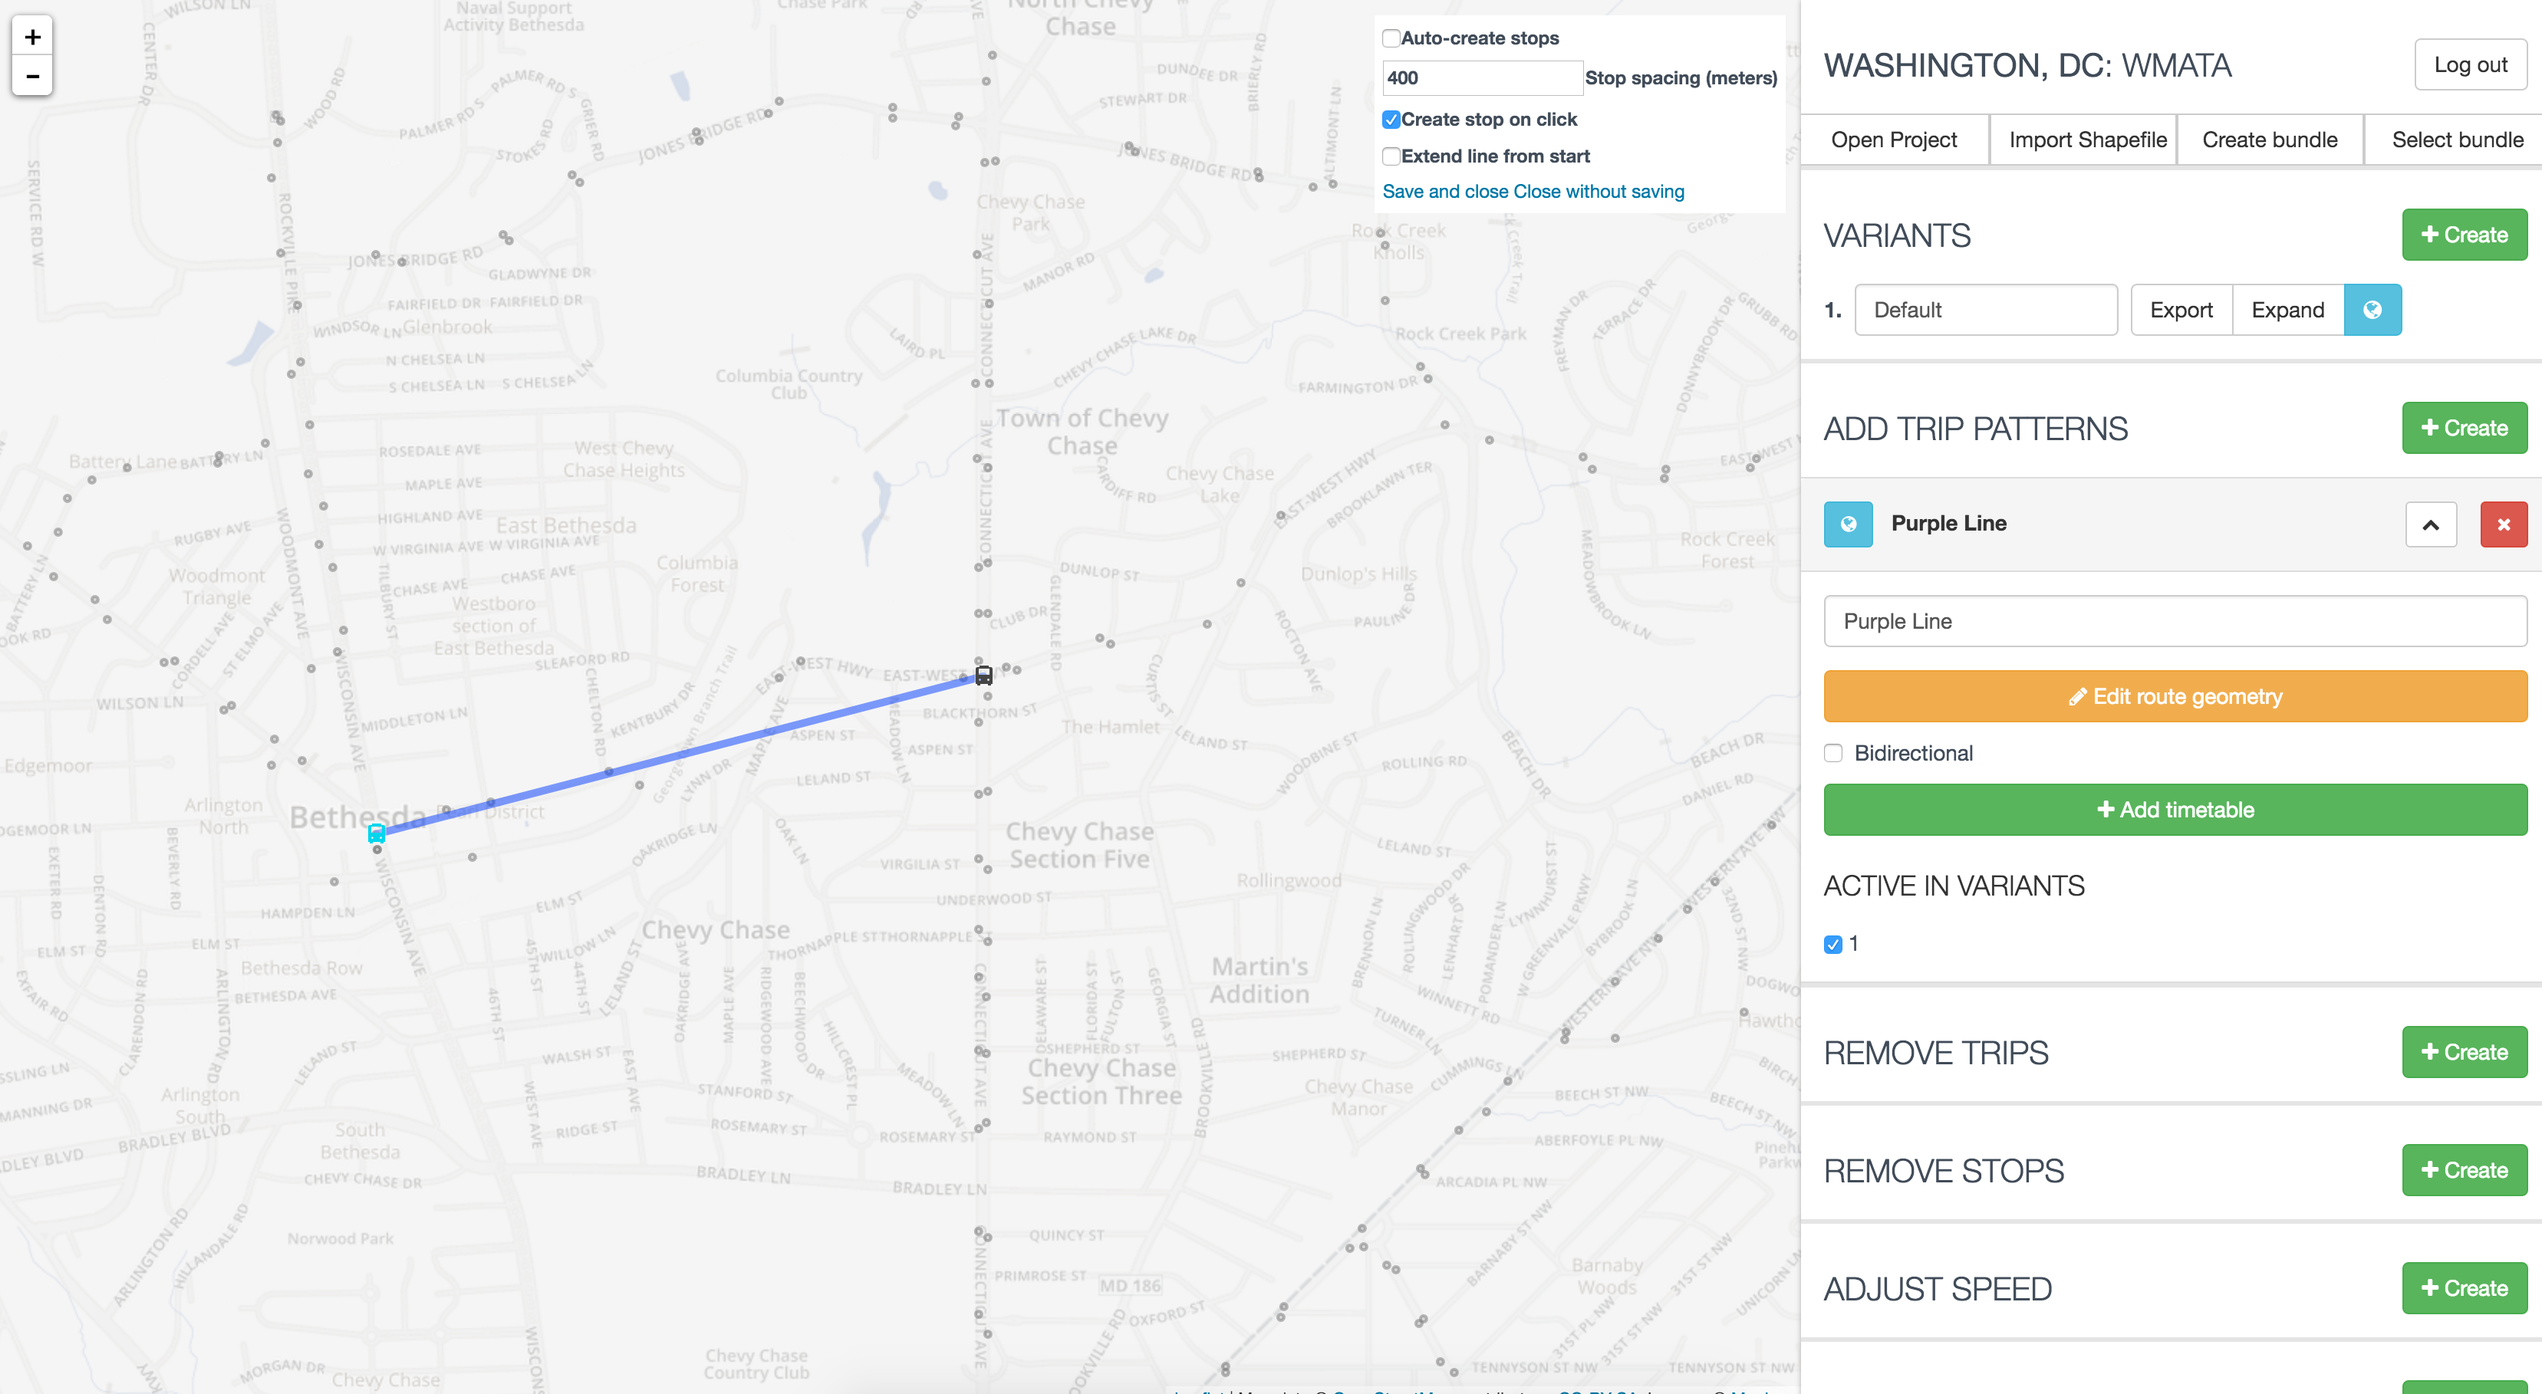
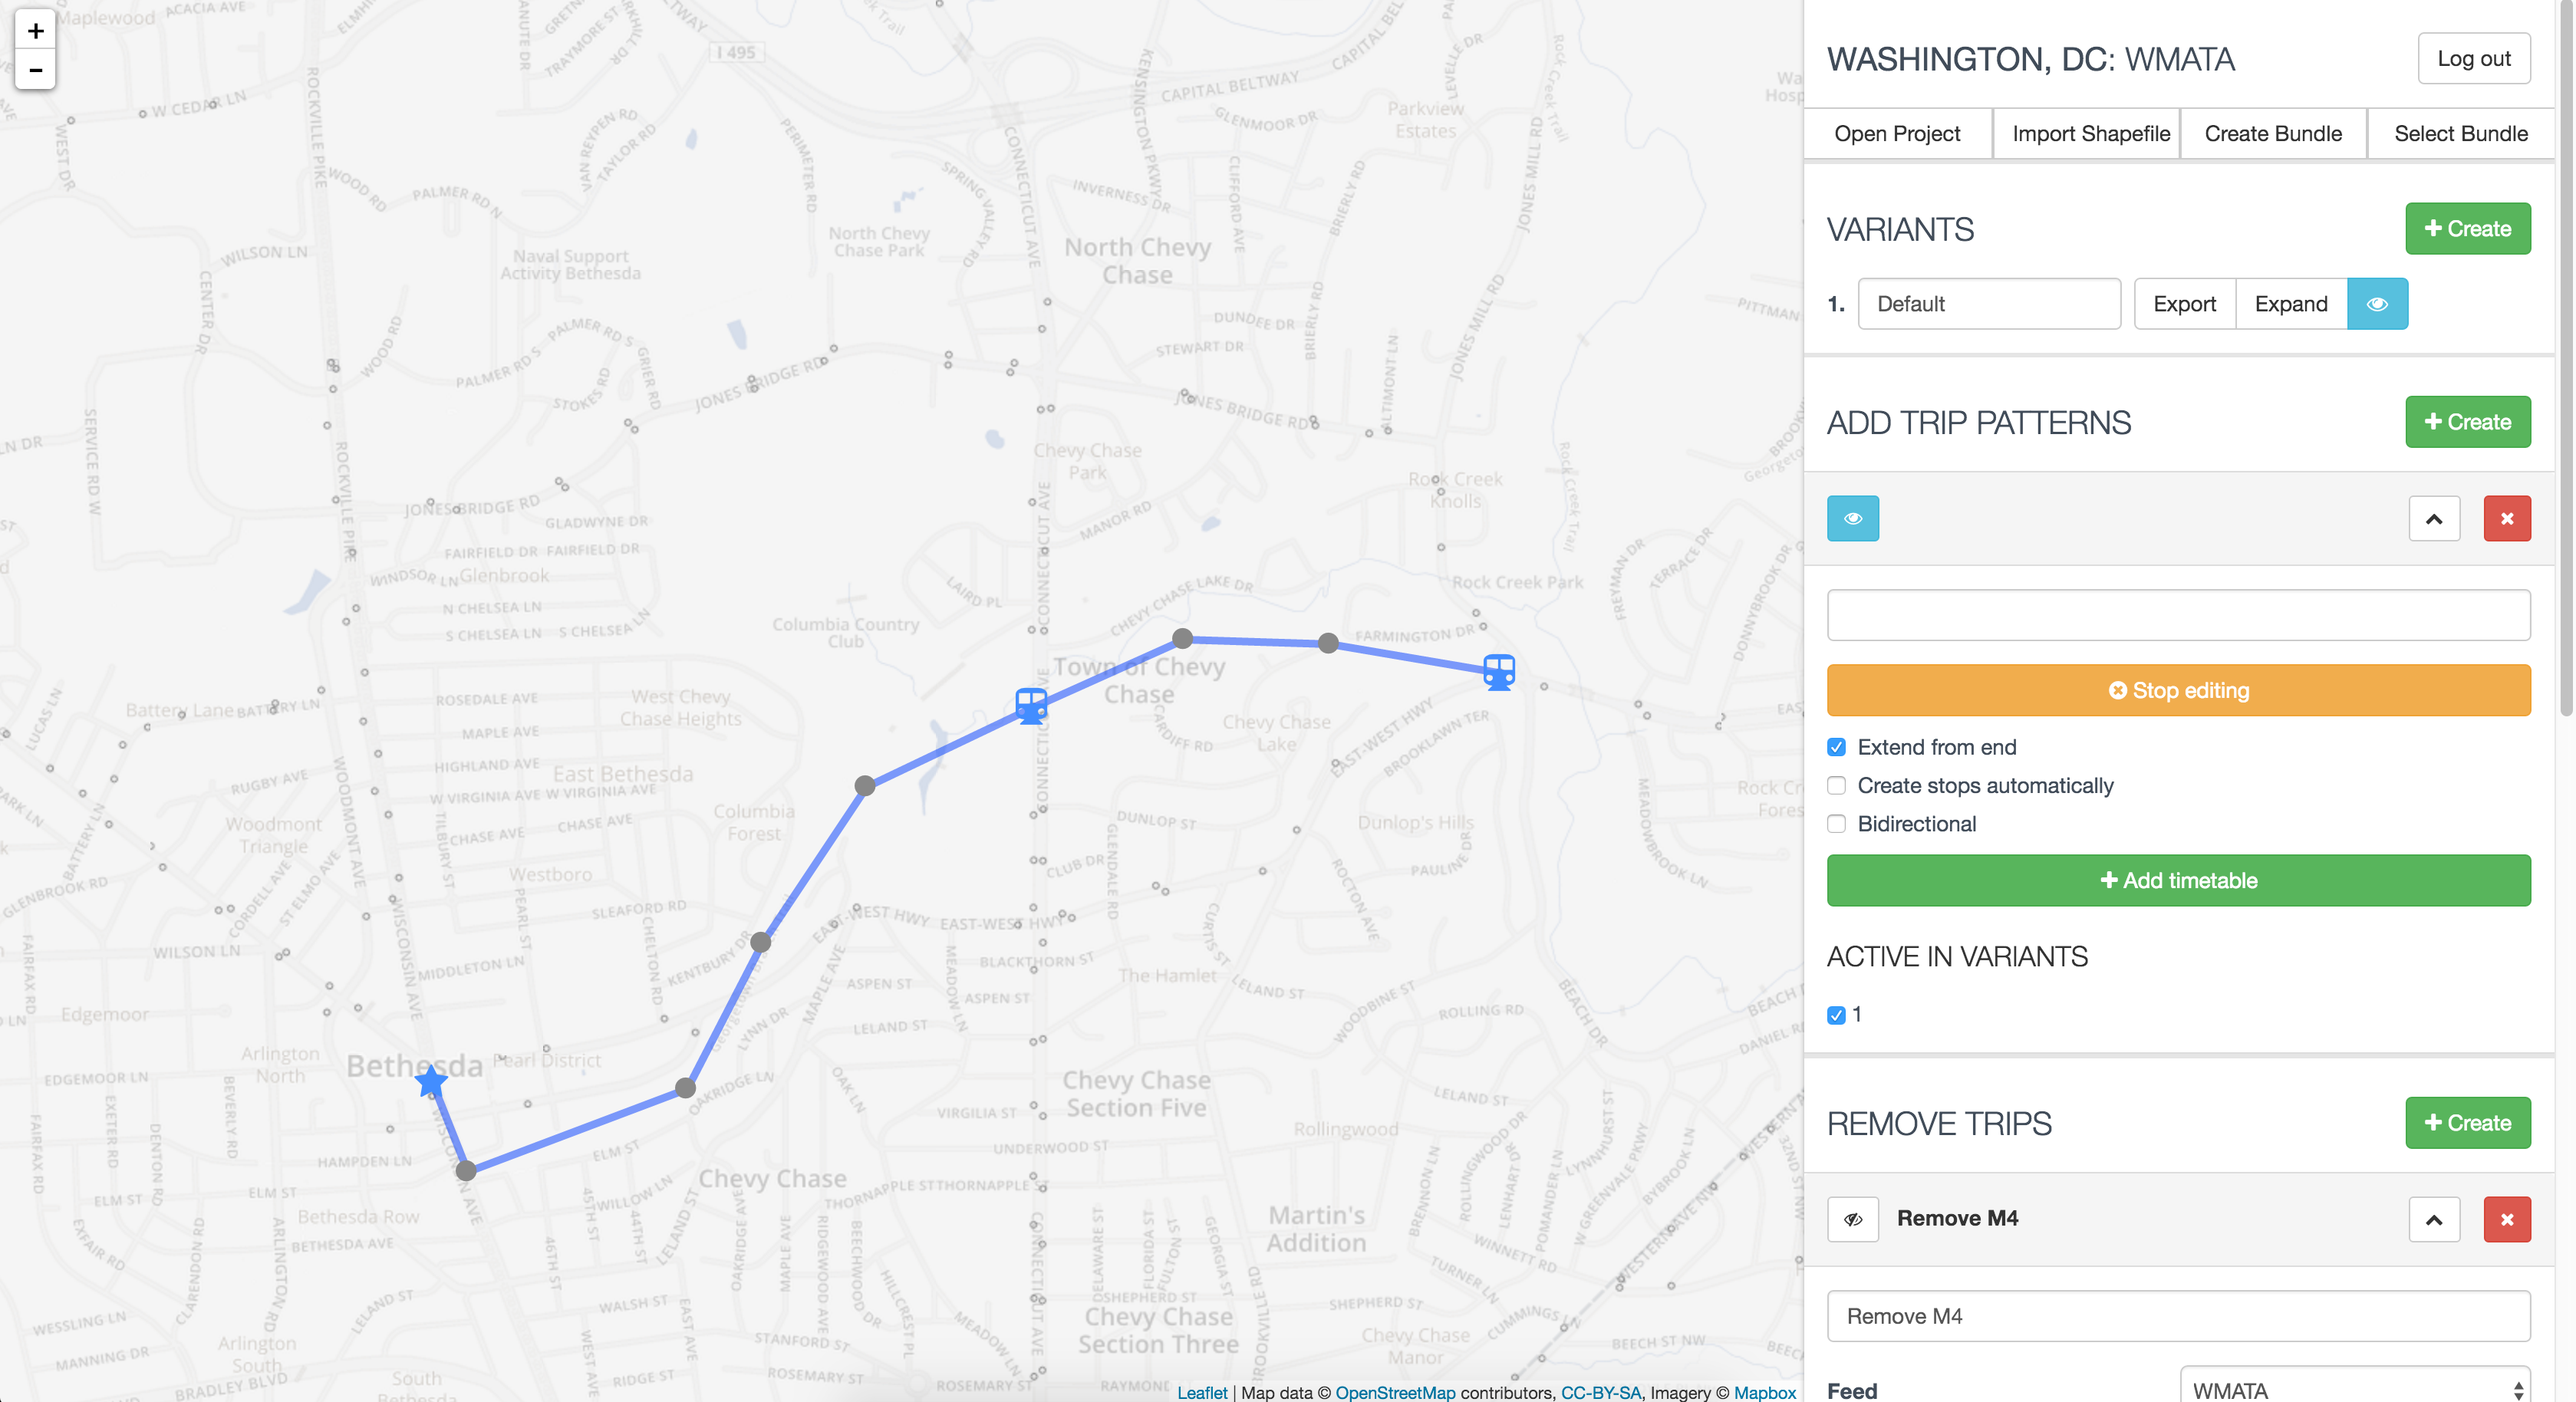
update docs with new transit editor.

diff --git a/docs/edit-scenario.md b/docs/edit-scenario.md
@@ -45,30 +45,33 @@ this would be used to model new routes, adding all of the trip patterns on the r
 
 <img src="../img/new-add-trip-patterns.png" alt="a new add trip patterns modification" />
 
-Here you can enter a name for the modification, and click "edit route geometry" to edit the alignment of the route. After clicking that, you will see
-the view below. You can also specify whether the modification is bidirectional. If this checkbox is checked, vehicles will travel in both directions
+Here you can enter a name for the modification. You can also specify whether the modification is bidirectional. If this checkbox is checked, vehicles will travel in both directions
 along the described geometry. If it is left unchecked, vehicles will only travel in the direction the line is drawn (which can be useful when there are couplets
-or other aspects of the route that don't follow the same alignment in both directions).
+or other aspects of the route that don't follow the same alignment in both directions). You can choose whether stops should be created automatically at a specified interval
+along the route, or if you will create all stops manually. To create an alignment for the modification (or to edit the alignment you've previously created), click the 'Edit route geometry'
+button. The 'Edit route geometry' button will change to a 'Stop editing' button, and you will then see this view.
 
 <img src="../img/blank-geometry.png" alt="the route alignment editor on a new route" />
 
-Click once on the map to place the first stop, then again to place the second stop, and so on. If you click on an existing stop, the icon will be blue and
-the new transit service will stop at that existing stop. If you click in a place where there is not an existing stop, a new stop will be created. Using the
-control panel at the upper right you can control whether stops are automatically created at a particular spacing, what that spacing is, whether clicks on
-the maps should generate stops or just "control points" (which are points that the alignment passes through but doesn't stop at), and whether clicks should extend the
-end of the line or the start of the line. Stops are shown on the map with bus stop icons, while control points are shown as blue circles.
+Click once on the map to place the first stop, then again to place the second stop, and so on. If you click on an existing stop (indicated by a gray circle), the
+icon for the new stop will be blue and
+the new transit service will stop at that existing stop. If you click in a place where there is not an existing stop, a new stop will be created. Using the checkbox
+below the 'Stop editing' button. The first stop of the alignment will have a star icon; later stops will have a train icon (this is particularly important in routes that
+are not bidirectional, in order to determine the direction of the route).
+
 
 <img src="../img/edit-geometry-start.png" alt="the edit route geometry view" />
 
-If you want to edit the alignment to follow the roads, drag any part of the alignment to the path you would like it to take. This creates a control point, unless you
-drag the line onto an existing stop (which will cause the line to visit that stop). It's important to get the alignment approximately correct so that the length of each
+If you want to edit the alignment to follow the roads, drag any part of the alignment to the path you would like it to take. This creates a "control point" which the route
+passes through but does not stop at. It's important to get the alignment approximately correct so that the length of each
 segment is correct when used to calculate the travel times between stops.
 
-To insert a stop into the middle of an alignment, first drag the alignment to the appropriate location, then click on the created control point and choose "make stop":
+To insert a stop into the middle of an alignment, first drag the alignment to the appropriate location, then click on the created control point and choose "make stop." You can also
+convert undesired stops into control points, or delete them, in this view.
 
 <img src="../img/make-stop.png" alt="make a new stop" />
 
-When you are done, click "close and save" in the editing control panel in the upper right of the map.
+When you are done, click "stop editing" in the right sidebar
 
 Once you have created an alignment, you need to specify when the routes run. You can do this by clicking "Add timetable" in the right-hand bar. (Note that you should save and close
 the alignment editor before doing this.) You will see this view:
@@ -167,8 +170,7 @@ after that point will be rerouted. This can be used to extend routes, or to dive
 
 <img src="../img/add-stops.png" alt="Adding stops" />
 
-You can then edit the alignment and the intermediate stops by clicking on "Edit Alignment." This uses the same tools that are used when adding trip patterns. Be sure to close the map editor
-before adjusting parameters in the right-hand bar.
+You can then edit the alignment and the intermediate stops by clicking on "Edit Alignment." This uses the same tools that are used when adding trip patterns.
 
 This modification is displayed on the map with the route being modified in gray, any segments that are being replaced in red, and the new segments in blue.
 
